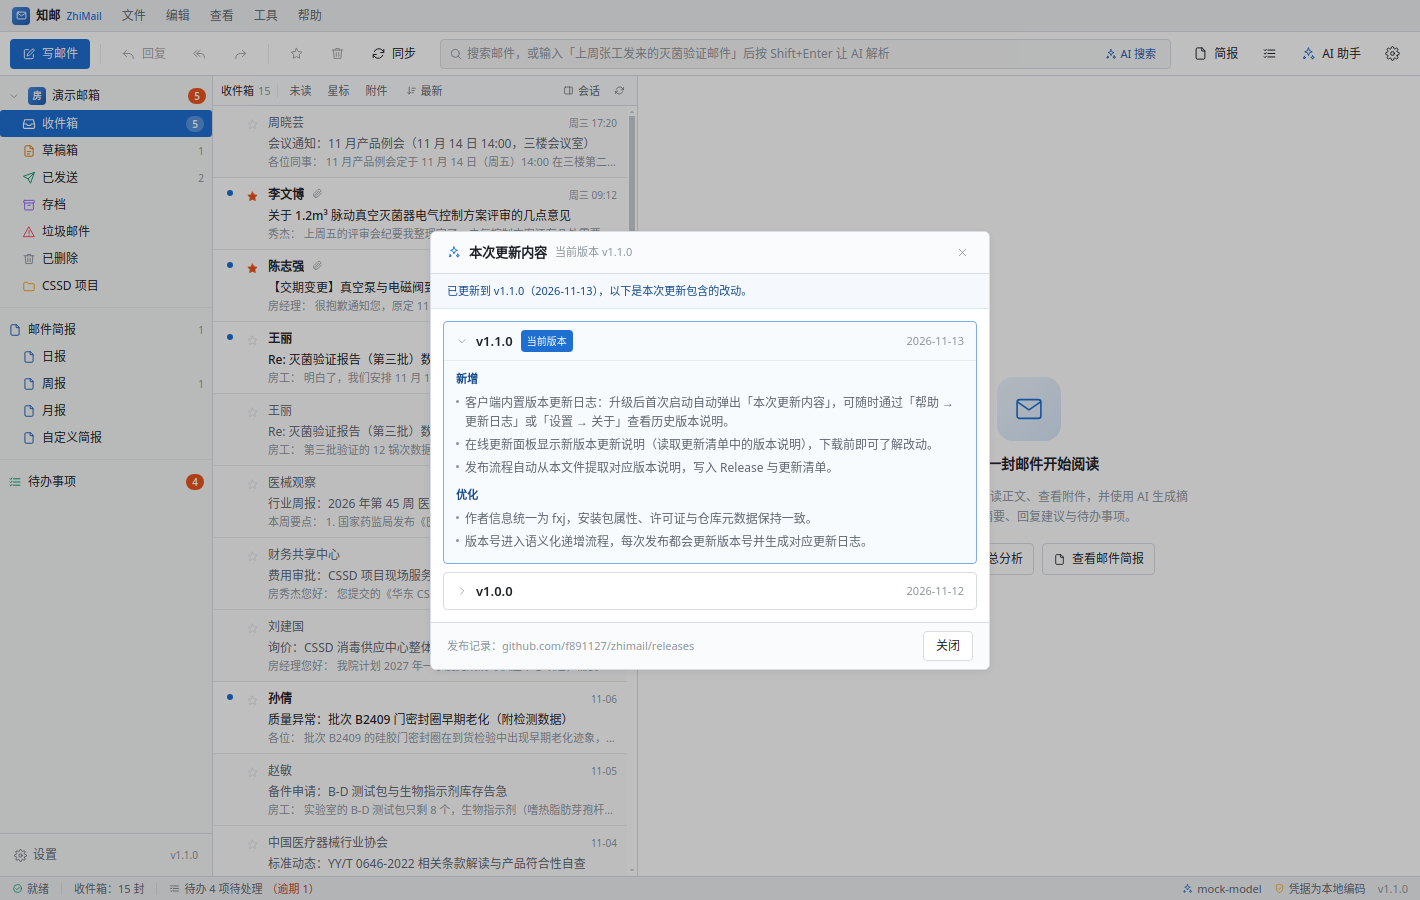
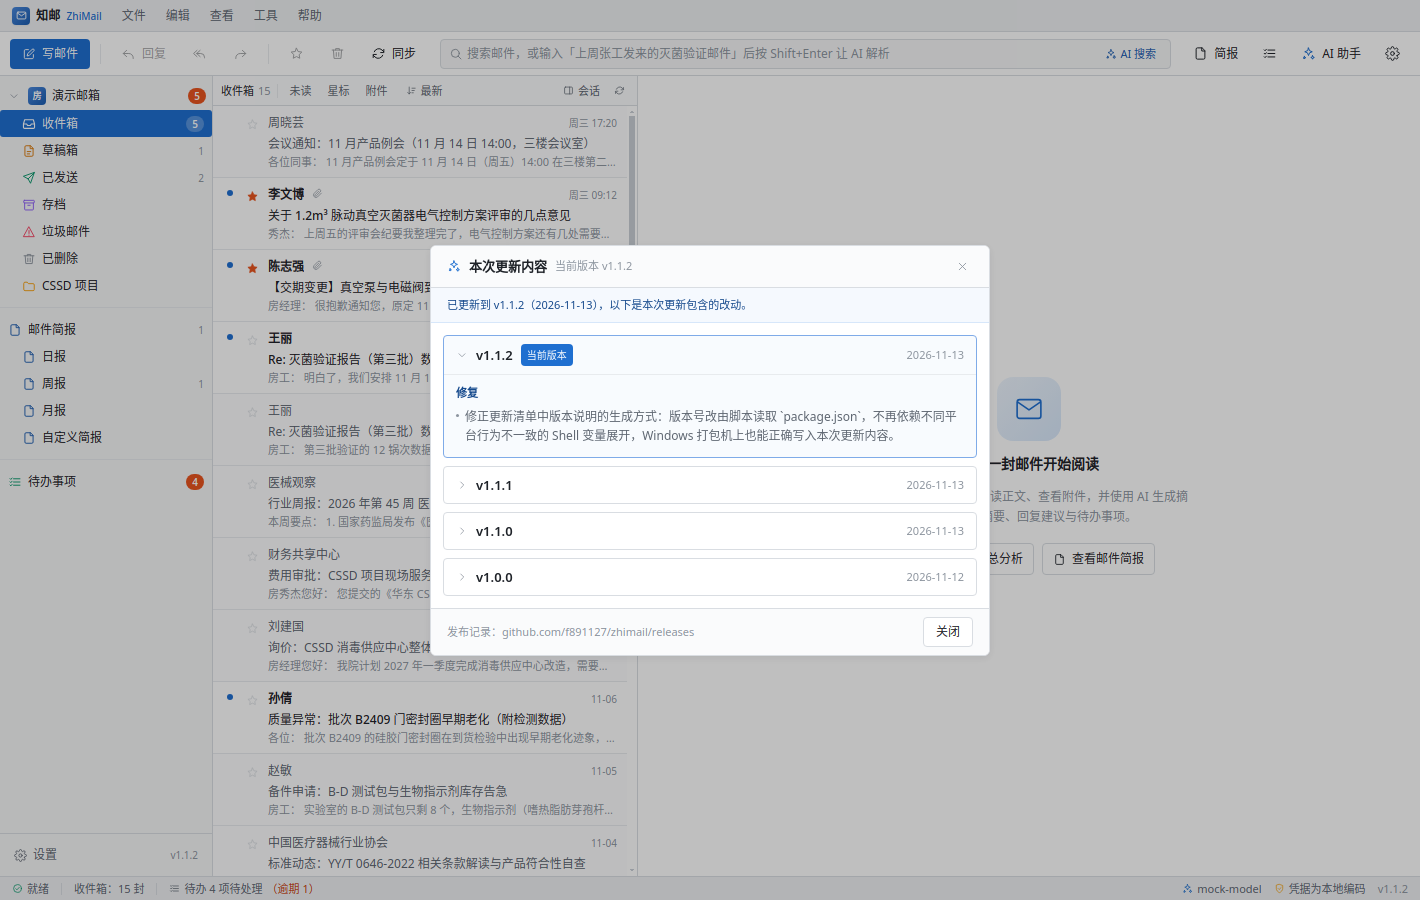
docs: 更新 1.1.2 截图与发版记录

Changed region(s): [[0.2789, 0.4044, 0.7127, 0.7467], [0.2789, 0.2489, 0.7127, 0.4044], [0.6507, 0.5289, 0.6817, 0.56]]

diff --git a/TODO.md b/TODO.md
@@ -105,9 +105,14 @@
 - [x] `.github/workflows/release.yml`：推送 `v*` 标签时在 windows-latest 构建 NSIS 安装包并发布 Release。
 - 证据：`electron/services/updater.ts`、`shots/06-update.png`。
 
+### 21. 发版流程与版本历史
+- [x] 每次发版同时更新 `package.json` 版本号与 `CHANGELOG.md` 对应小节，二者是客户端日志、更新清单与 Release 说明的唯一来源。
+- [x] 已发布版本：v1.0.0（首个版本）、v1.1.0（内置版本更新日志）、v1.1.1 与 v1.1.2（更新清单写入版本说明）。
+- 证据：https://github.com/f891127/zhimail/releases
+
 ### 20. 构建产物与仓库
 - [x] 代码推送至 GitHub 公开仓库 https://github.com/f891127/zhimail （完整源码、README、CHANGELOG、MIT 许可证、工作流）。
-- [x] 本地产出免安装便携包 `release/ZhiMail-1.1.0-x64-portable.zip`（解压即用）。
+- [x] 本地产出免安装便携包 `ZhiMail-1.1.2-x64-portable.zip`（解压即用）。
 - [x] NSIS 安装包由 GitHub Actions 的 Windows runner 构建（本沙箱为 ARM Linux，wine32 不可用，无法本地生成 NSIS）。
 
 ## 后续可做
